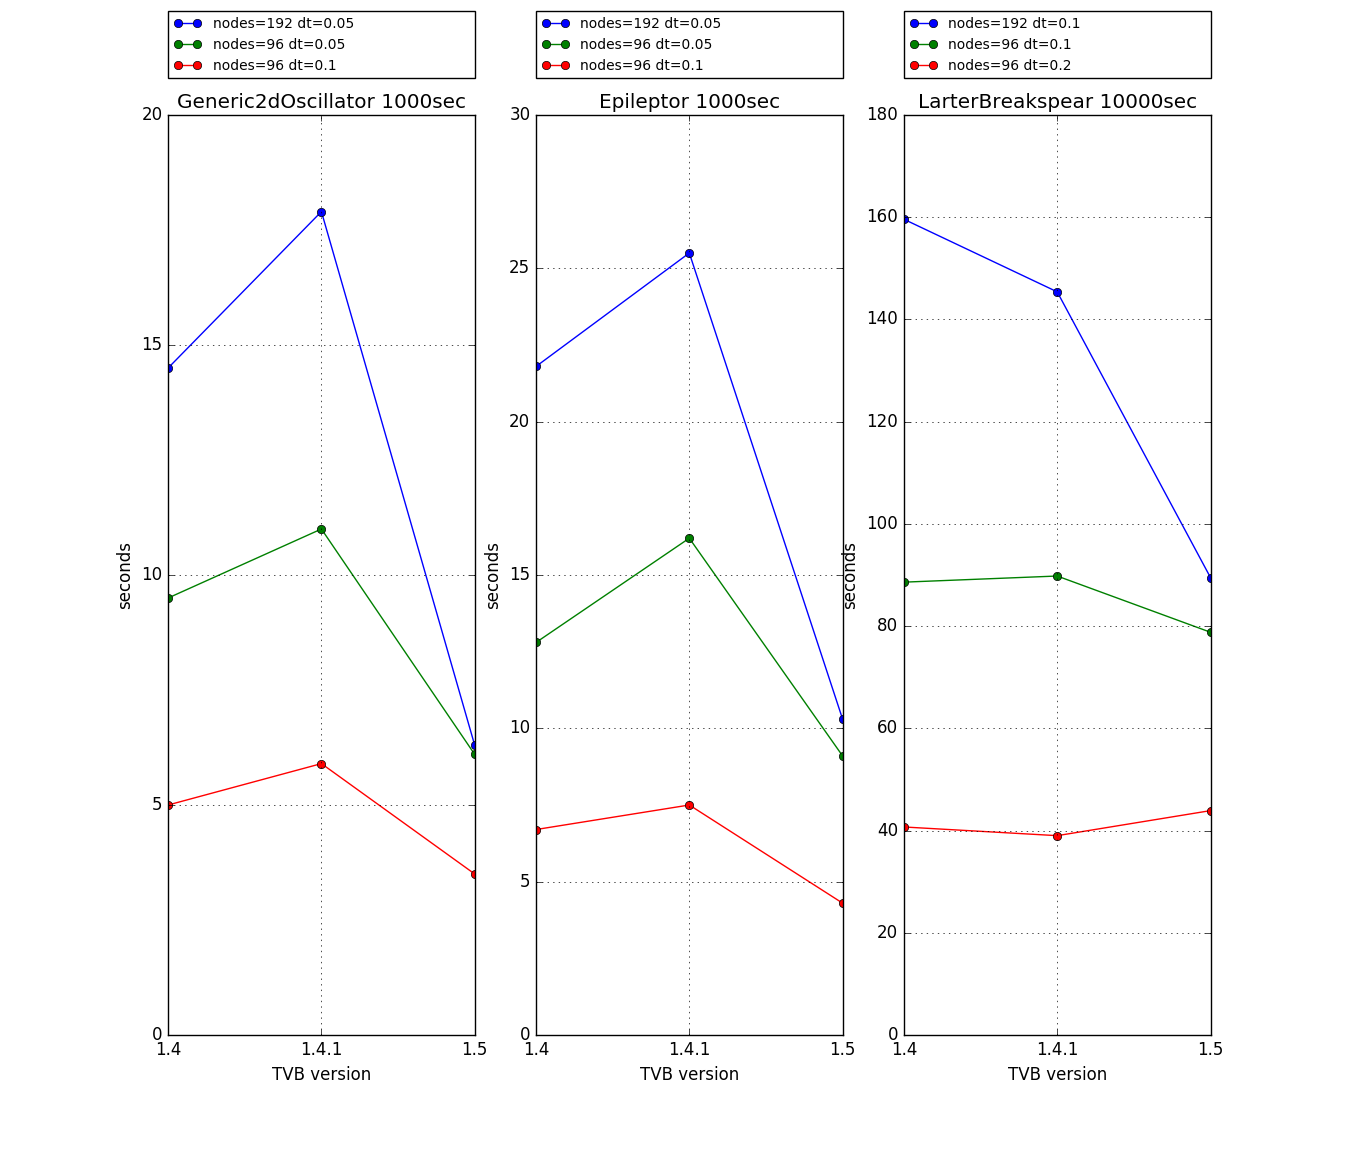
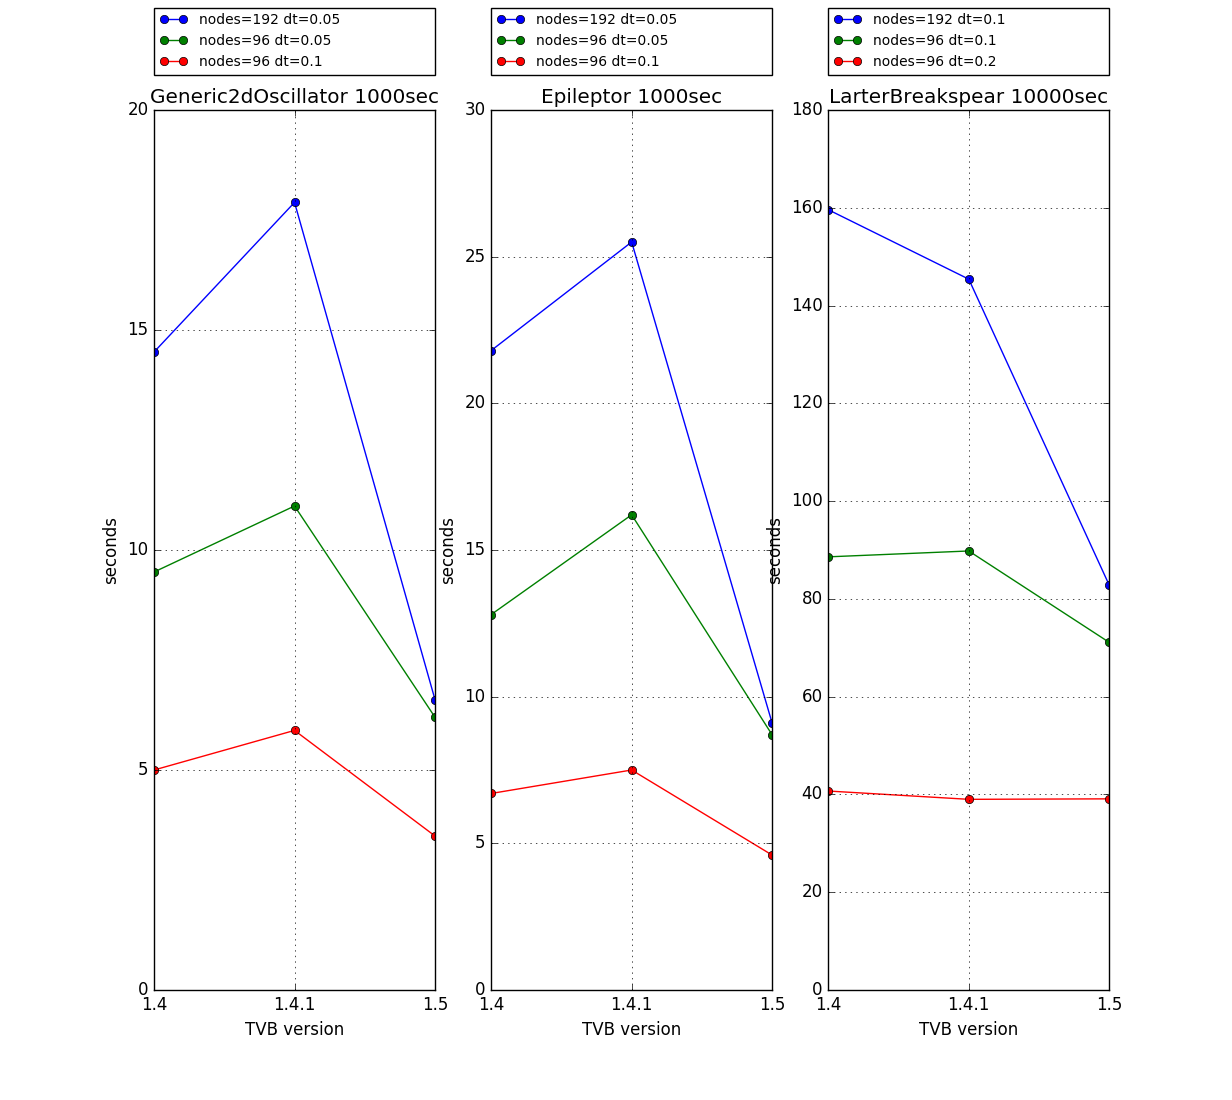
TVB-2023 Update benchmark 1.5 as an average over multiple runs
git-svn-id: https://repo.thevirtualbrain.org/svn/tvb/trunk/tvb_documentation@8031 1c0e02f0-7929-43c0-8fb3-3293bf43b0d1

diff --git a/doc_site/benchmarks/generate_benchmark_img.py b/doc_site/benchmarks/generate_benchmark_img.py
@@ -58,19 +58,19 @@ x_labels = ["1.4", "1.4.1", "1.5"]
 figure = pyplot.figure()
 
 plot(131, "Generic2dOscillator 1000sec", 20,
-     [14.5, 17.9, 6.3], "nodes=192 dt=0.05",
-     [9.5, 11.0, 6.1], "nodes=96 dt=0.05",
+     [14.5, 17.9, 6.6], "nodes=192 dt=0.05",
+     [9.5, 11.0, 6.2], "nodes=96 dt=0.05",
      [5, 5.9, 3.5], "nodes=96 dt=0.1")
 
 plot(132, "Epileptor 1000sec", 30,
-     [21.8, 25.5, 10.3], "nodes=192 dt=0.05",
-     [12.8, 16.2, 9.1], "nodes=96 dt=0.05",
-     [6.7, 7.5, 4.3], "nodes=96 dt=0.1")
+     [21.8, 25.5, 9.1], "nodes=192 dt=0.05",
+     [12.8, 16.2, 8.7], "nodes=96 dt=0.05",
+     [6.7, 7.5, 4.6], "nodes=96 dt=0.1")
 
 plot(133, "LarterBreakspear 10000sec", 180,
-     [159.6, 145.4, 89.5], "nodes=192 dt=0.1",
-     [88.6, 89.8, 78.8], "nodes=96 dt=0.1",
-     [40.7, 39.0, 43.9], "nodes=96 dt=0.2")
+     [159.6, 145.4, 82.8], "nodes=192 dt=0.1",
+     [88.6, 89.8, 71.1], "nodes=96 dt=0.1",
+     [40.7, 39.0, 39.1], "nodes=96 dt=0.2")
 
 pyplot.show()
 figure.savefig("../../_static/benchmarks-evolution-mac.png")

diff --git a/doc_site/benchmarks/tvb_1.5_mac.rst b/doc_site/benchmarks/tvb_1.5_mac.rst
@@ -46,29 +46,29 @@ The local model parameters are usually irrelevant for the purpose of benchmarkin
 +------------------------+--------+-------+-----------+---------+-----------+
 |                        |    (ms)|       |    (mm/ms)|     (ms)| min:sec   |
 +========================+========+=======+===========+=========+===========+
-|    Generic2dOscillator |   1000 |    68 |      30.0 |     0.1 |   00:03.0 |
+|    Generic2dOscillator |   1000 |    68 |      30.0 |     0.1 |   00:03.1 |
 +------------------------+--------+-------+-----------+---------+-----------+
-|    Generic2dOscillator |   1000 |    68 |       3.0 |     0.1 |   00:03.3 |
+|    Generic2dOscillator |   1000 |    68 |       3.0 |     0.1 |   00:03.2 |
 +------------------------+--------+-------+-----------+---------+-----------+
-|    Generic2dOscillator |   1000 |    68 |      30.0 |    0.05 |   00:05.6 |
+|    Generic2dOscillator |   1000 |    68 |      30.0 |    0.05 |   00:05.4 |
 +------------------------+--------+-------+-----------+---------+-----------+
-|    Generic2dOscillator |   1000 |    68 |       3.0 |    0.05 |   00:05.7 |
+|    Generic2dOscillator |   1000 |    68 |       3.0 |    0.05 |   00:05.9 |
 +------------------------+--------+-------+-----------+---------+-----------+
-|    Generic2dOscillator |   1000 |    96 |      30.0 |     0.1 |   00:03.6 |
+|    Generic2dOscillator |   1000 |    96 |      30.0 |     0.1 |   00:03.7 |
 +------------------------+--------+-------+-----------+---------+-----------+
 |    Generic2dOscillator |   1000 |    96 |       3.0 |     0.1 |   00:03.5 |
 +------------------------+--------+-------+-----------+---------+-----------+
-|    Generic2dOscillator |   1000 |    96 |      30.0 |    0.05 |   00:06.3 |
+|    Generic2dOscillator |   1000 |    96 |      30.0 |    0.05 |   00:06.6 |
 +------------------------+--------+-------+-----------+---------+-----------+
-|    Generic2dOscillator |   1000 |    96 |       3.0 |    0.05 |   00:06.1 |
+|    Generic2dOscillator |   1000 |    96 |       3.0 |    0.05 |   00:06.2 |
 +------------------------+--------+-------+-----------+---------+-----------+
-|    Generic2dOscillator |   1000 |   192 |      30.0 |     0.1 |   00:03.7 |
+|    Generic2dOscillator |   1000 |   192 |      30.0 |     0.1 |   00:03.5 |
 +------------------------+--------+-------+-----------+---------+-----------+
 |    Generic2dOscillator |   1000 |   192 |       3.0 |     0.1 |   00:03.7 |
 +------------------------+--------+-------+-----------+---------+-----------+
-|    Generic2dOscillator |   1000 |   192 |      30.0 |    0.05 |   00:06.5 |
+|    Generic2dOscillator |   1000 |   192 |      30.0 |    0.05 |   00:06.6 |
 +------------------------+--------+-------+-----------+---------+-----------+
-|    Generic2dOscillator |   1000 |   192 |       3.0 |    0.05 |   00:06.3 |
+|    Generic2dOscillator |   1000 |   192 |       3.0 |    0.05 |   00:06.6 |
 +------------------------+--------+-------+-----------+---------+-----------+
 
 
@@ -95,29 +95,29 @@ The local model parameters are usually irrelevant for the purpose of benchmarkin
 +------------------------+--------+-------+-----------+---------+-----------+
 |                        |    (ms)|       |    (mm/ms)|     (ms)| min:sec   |
 +========================+========+=======+===========+=========+===========+
-|              Epileptor |   1000 |    68 |      30.0 |     0.1 |   00:03.8 |
+|              Epileptor |   1000 |    68 |      30.0 |     0.1 |   00:03.7 |
 +------------------------+--------+-------+-----------+---------+-----------+
 |              Epileptor |   1000 |    68 |       3.0 |     0.1 |   00:03.8 |
 +------------------------+--------+-------+-----------+---------+-----------+
-|              Epileptor |   1000 |    68 |      30.0 |    0.05 |   00:06.8 |
+|              Epileptor |   1000 |    68 |      30.0 |    0.05 |   00:07.0 |
 +------------------------+--------+-------+-----------+---------+-----------+
 |              Epileptor |   1000 |    68 |       3.0 |    0.05 |   00:06.7 |
 +------------------------+--------+-------+-----------+---------+-----------+
 |              Epileptor |   1000 |    96 |      30.0 |     0.1 |   00:04.7 |
 +------------------------+--------+-------+-----------+---------+-----------+
-|              Epileptor |   1000 |    96 |       3.0 |     0.1 |   00:04.3 |
+|              Epileptor |   1000 |    96 |       3.0 |     0.1 |   00:04.6 |
 +------------------------+--------+-------+-----------+---------+-----------+
-|              Epileptor |   1000 |    96 |      30.0 |    0.05 |   00:08.0 |
+|              Epileptor |   1000 |    96 |      30.0 |    0.05 |   00:07.9 |
 +------------------------+--------+-------+-----------+---------+-----------+
-|              Epileptor |   1000 |    96 |       3.0 |    0.05 |   00:09.1 |
+|              Epileptor |   1000 |    96 |       3.0 |    0.05 |   00:08.7 |
 +------------------------+--------+-------+-----------+---------+-----------+
-|              Epileptor |   1000 |   192 |      30.0 |     0.1 |   00:05.1 |
+|              Epileptor |   1000 |   192 |      30.0 |     0.1 |   00:05.0 |
 +------------------------+--------+-------+-----------+---------+-----------+
-|              Epileptor |   1000 |   192 |       3.0 |     0.1 |   00:05.8 |
+|              Epileptor |   1000 |   192 |       3.0 |     0.1 |   00:05.2 |
 +------------------------+--------+-------+-----------+---------+-----------+
-|              Epileptor |   1000 |   192 |      30.0 |    0.05 |   00:11.1 |
+|              Epileptor |   1000 |   192 |      30.0 |    0.05 |   00:09.6 |
 +------------------------+--------+-------+-----------+---------+-----------+
-|              Epileptor |   1000 |   192 |       3.0 |    0.05 |   00:10.3 |
+|              Epileptor |   1000 |   192 |       3.0 |    0.05 |   00:09.1 |
 +------------------------+--------+-------+-----------+---------+-----------+
 
 
@@ -145,16 +145,16 @@ The local model parameters are usually irrelevant for the purpose of benchmarkin
 +------------------------+--------+-------+-----------+---------+-----------+
 |                        |    (ms)|       |    (mm/ms)|     (ms)| min:sec   |
 +========================+========+=======+===========+=========+===========+
-|       LarterBreakspear |  10000 |    68 |      10.0 |     0.2 |   00:39.1 |
+|       LarterBreakspear |  10000 |    68 |      10.0 |     0.2 |   00:35.0 |
 +------------------------+--------+-------+-----------+---------+-----------+
-|       LarterBreakspear |  10000 |    68 |      10.0 |     0.1 |   01:05.2 |
+|       LarterBreakspear |  10000 |    68 |      10.0 |     0.1 |   01:02.8 |
 +------------------------+--------+-------+-----------+---------+-----------+
-|       LarterBreakspear |  10000 |    96 |      10.0 |     0.2 |   00:43.9 |
+|       LarterBreakspear |  10000 |    96 |      10.0 |     0.2 |   00:39.1 |
 +------------------------+--------+-------+-----------+---------+-----------+
-|       LarterBreakspear |  10000 |    96 |      10.0 |     0.1 |   01:18.8 |
+|       LarterBreakspear |  10000 |    96 |      10.0 |     0.1 |   01:17.1 |
 +------------------------+--------+-------+-----------+---------+-----------+
-|       LarterBreakspear |  10000 |   192 |      10.0 |     0.2 |   00:48.8 |
+|       LarterBreakspear |  10000 |   192 |      10.0 |     0.2 |   00:45.1 |
 +------------------------+--------+-------+-----------+---------+-----------+
-|       LarterBreakspear |  10000 |   192 |      10.0 |     0.1 |   01:29.5 |
+|       LarterBreakspear |  10000 |   192 |      10.0 |     0.1 |   01:22.8 |
 +------------------------+--------+-------+-----------+---------+-----------+
 
